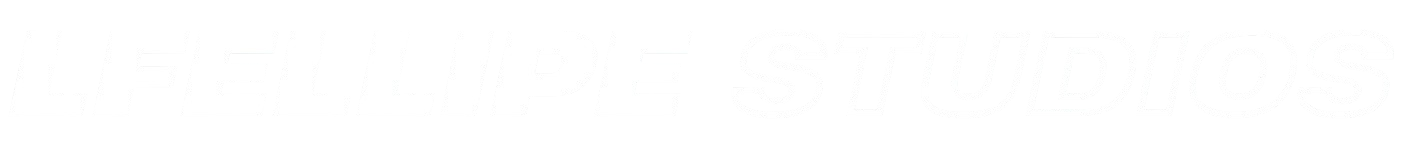
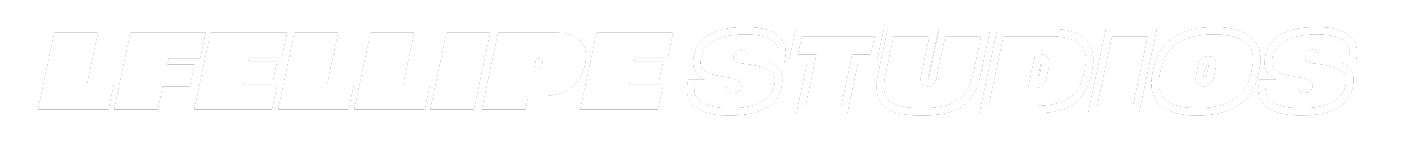
commit 18/01 v.1.3.0
Atualizações:
- Nova Logo
- Portifolio agora suporta 4 slots.

Atualizações na aba portifolio:
- Textos reestruturados
- Portifolio agora suporta 4 slots.
- Correções de bugs nos parágrafos

diff --git a/website-lfellipestudios-app/src/components/Portifolio-Page/PortifolioPageComponent.jsx b/website-lfellipestudios-app/src/components/Portifolio-Page/PortifolioPageComponent.jsx
@@ -1,5 +1,5 @@
 import React, { useRef } from 'react'
-import './PortifolioPageComponent.module.css'
+import styles from './PortifolioPageComponent.module.css'
 import noicon from "../../assets/portifolionoimage.png";
 
 const PortifolioPageComponent = () => {
@@ -24,8 +24,8 @@ const PortifolioPageComponent = () => {
   return (
     <div className="portifolio">
 
-        <button className='back-button' onClick={slideBackward}>◄</button>
-        <button className='forward-button' onClick={slideForward}>►</button>
+        <button className={styles.backButton} onClick={slideBackward}>◄</button>
+        <button className={styles.forwardButton} onClick={slideForward}>►</button>
         
         <div className="slider">
           <ul ref={slider}>
@@ -34,10 +34,10 @@ const PortifolioPageComponent = () => {
                 <div className="projectinfo">
                   <img src={noicon} alt="noicon" />
                   <div><h3>Titulo Limite do Projeto</h3>
-                       <span>Subtitulo do Projeto</span> 
+                       <span>Subtitulo do Projeto</span>
+                       <p>Descrição Detalhada do Projeto. Lorem Ipsum sit amet, consectetur adipiscing elit.</p>
                   </div>
                 </div>
-                <p>Descrição Detalhada do Projeto. Lorem Ipsum sit amet, consectetur adipiscing elit.</p>
               </div>
             </li>
             <li>
@@ -45,10 +45,11 @@ const PortifolioPageComponent = () => {
                 <div className="projectinfo">
                   <img src={noicon} alt="noicon" />
                   <div><h3>Titulo Limite do Projeto</h3>
-                       <span>Subtitulo do Projeto </span> 
+                       <span>Subtitulo do Projeto </span>
+                       <p>Descrição Detalhada do Projeto. Lorem Ipsum sit amet, consectetur adipiscing elit.</p>
                   </div>
                 </div>
-                <p>Descrição Detalhada do Projeto. Lorem Ipsum sit amet, consectetur adipiscing elit.</p>
+                
               </div>
             </li>
             <li>
@@ -56,10 +57,11 @@ const PortifolioPageComponent = () => {
                 <div className="projectinfo">
                   <img src={noicon} alt="noicon" />
                   <div><h3>Titulo Limite do Projeto</h3>
-                       <span>Subtitulo do Projeto</span> 
+                       <span>Subtitulo do Projeto</span>
+                       <p>Descrição Detalhada do Projeto. Lorem Ipsum sit amet, consectetur adipiscing elit.</p>
                   </div>
                 </div>
-                <p>Descrição Detalhada do Projeto. Lorem Ipsum sit amet, consectetur adipiscing elit.</p>
+                
               </div>
             </li>
             <li>
@@ -67,10 +69,11 @@ const PortifolioPageComponent = () => {
                 <div className="projectinfo">
                   <img src={noicon} alt="noicon" />
                   <div><h3>Titulo Limite do Projeto</h3>
-                       <span>Subtitulo do Projeto</span> 
+                       <span>Subtitulo do Projeto</span>
+                       <p>Descrição Detalhada do Projeto. Lorem Ipsum sit amet, consectetur adipiscing elit.</p> 
                   </div>
                 </div>
-                <p>Descrição Detalhada do Projeto. Lorem Ipsum sit amet, consectetur adipiscing elit.</p>
+                
               </div>
             </li>
             <li>
@@ -78,10 +81,11 @@ const PortifolioPageComponent = () => {
                 <div className="projectinfo">
                   <img src={noicon} alt="noicon" />
                   <div><h3>Titulo Limite do Projeto</h3>
-                       <span>Subtitulo do Projeto</span> 
+                       <span>Subtitulo do Projeto</span>
+                       <p>Descrição Detalhada do Projeto. Lorem Ipsum sit amet, consectetur adipiscing elit.</p> 
                   </div>
                 </div>
-                <p>Descrição Detalhada do Projeto. Lorem Ipsum sit amet, consectetur adipiscing elit.</p>
+                
               </div>
             </li>
             <li>
@@ -89,10 +93,10 @@ const PortifolioPageComponent = () => {
                 <div className="projectinfo">
                   <img src={noicon} alt="noicon" />
                   <div><h3>Titulo Limite do Projeto</h3>
-                       <span>Subtitulo do Projeto</span> 
+                       <span>Subtitulo do Projeto</span>
+                       <p>Descrição Detalhada do Projeto. Lorem Ipsum sit amet, consectetur adipiscing elit.</p>
                   </div>
                 </div>
-                <p>Descrição Detalhada do Projeto. Lorem Ipsum sit amet, consectetur adipiscing elit.</p>
               </div>
             </li>
           </ul>

diff --git a/website-lfellipestudios-app/src/components/Portifolio-Page/PortifolioPageComponent.module.css b/website-lfellipestudios-app/src/components/Portifolio-Page/PortifolioPageComponent.module.css
@@ -13,10 +13,10 @@ p{
     margin: auto;
 }
 
-.forward-button, .back-button{
+.forwardButton{
     position: absolute;
-    top: 36%;
     color: black;
+    top: 36%;
     right: 0;
     transform: translateY(-60%);
     width: 50px;
@@ -27,15 +27,37 @@ p{
     border: 5px solid rgba(255, 255, 255, 0);
     border-radius: 15px;
     padding: 10px 10px;
+    user-select: none;
+    z-index: 10;
+    transition: 0.5s;
+    display: block;
+}
+.backButton {
+    position: absolute;
+    color: black;
+    top: 36%;
+    left: 0;
+    transform: translateY(-60%);
+    width: 50px;
+    border-radius: 10px;
+    cursor: pointer;
+    font-family: 'heading-now-86-bold';
+    font-size: 20px;
+    border: 5px solid rgba(255, 255, 255, 0);
+    border-radius: 15px;
+    padding: 10px 10px;
+    user-select: none;
+    z-index: 10;
     transition: 0.5s;
     display: block;
 }
 
-.forward-button:hover, .back-button:hover{
+
+.forwardButton:hover, .backButton:hover{
     box-shadow: 0px 0px 0px 4px white;
     transition: 0.2s;
 }
-.forward-button:active, .back-button:active{
+.forwardButton:active, .backButton:active{
     font-size: 15px;
     box-shadow: 0px 0px 0px 1px white;
     transition: 0.1s;

diff --git a/website-lfellipestudios-app/src/pages/portifoliopage.jsx b/website-lfellipestudios-app/src/pages/portifoliopage.jsx
@@ -11,13 +11,21 @@ const PortifolioPage = () => {
   return (
     <div>
         <div className="container portifolio-page-container">
-        <div className="portifolio-alert"><span>Página em construção <br />Design subjetivo a mudanças</span></div>
+        <TituloDireitaComponente 
+        titulo="Portifólio" 
+        texto={
+        <>
+        Conheça meus projetos.<br />
+        <i>(Página em construção, design subjetivo a mudanças)</i>
+        </>
+        } 
+/>
         <HomebarPortifolioComponent />
         <TituloComponente titulo="Projetos Recentes" texto="Descubra meus projetos mais recentes." />
         <PortifolioPageComponent />
         <TituloComponente titulo="Projetos UNINASSAU" texto="Meus Projetos da UNINASSAU." />
         <PortifolioPageComponent />
-        <TituloComponente titulo="Design Gráfico" texto="Projetos que envolvem Design Gráfico e Fotografia." />
+        <TituloComponente titulo="Design Gráfico" texto="Projetos de Design Gráfico e Fotografia." />
         <PortifolioPageComponent />
         </div>
         <div className="container">

diff --git a/website-lfellipestudios-app/src/components/Portifolio/PortifolioComponent.css b/website-lfellipestudios-app/src/components/Portifolio/PortifolioComponent.css
@@ -15,7 +15,7 @@ p{
 
 .forward-button, .back-button{
     position: absolute;
-    top: 30%;
+    top: 36%;
     color: rgb(0, 0, 0);
     right: 0;
     transform: translateY(-60%);
@@ -50,12 +50,11 @@ p{
 
 .slider{
     overflow: hidden;
-    
 }
 
 .slider ul{
     display: flex;
-    width: 200%;
+    width: 150%;
     overflow-x: hidden;
     transition: 0.5s;
     transform: translateX(0);
